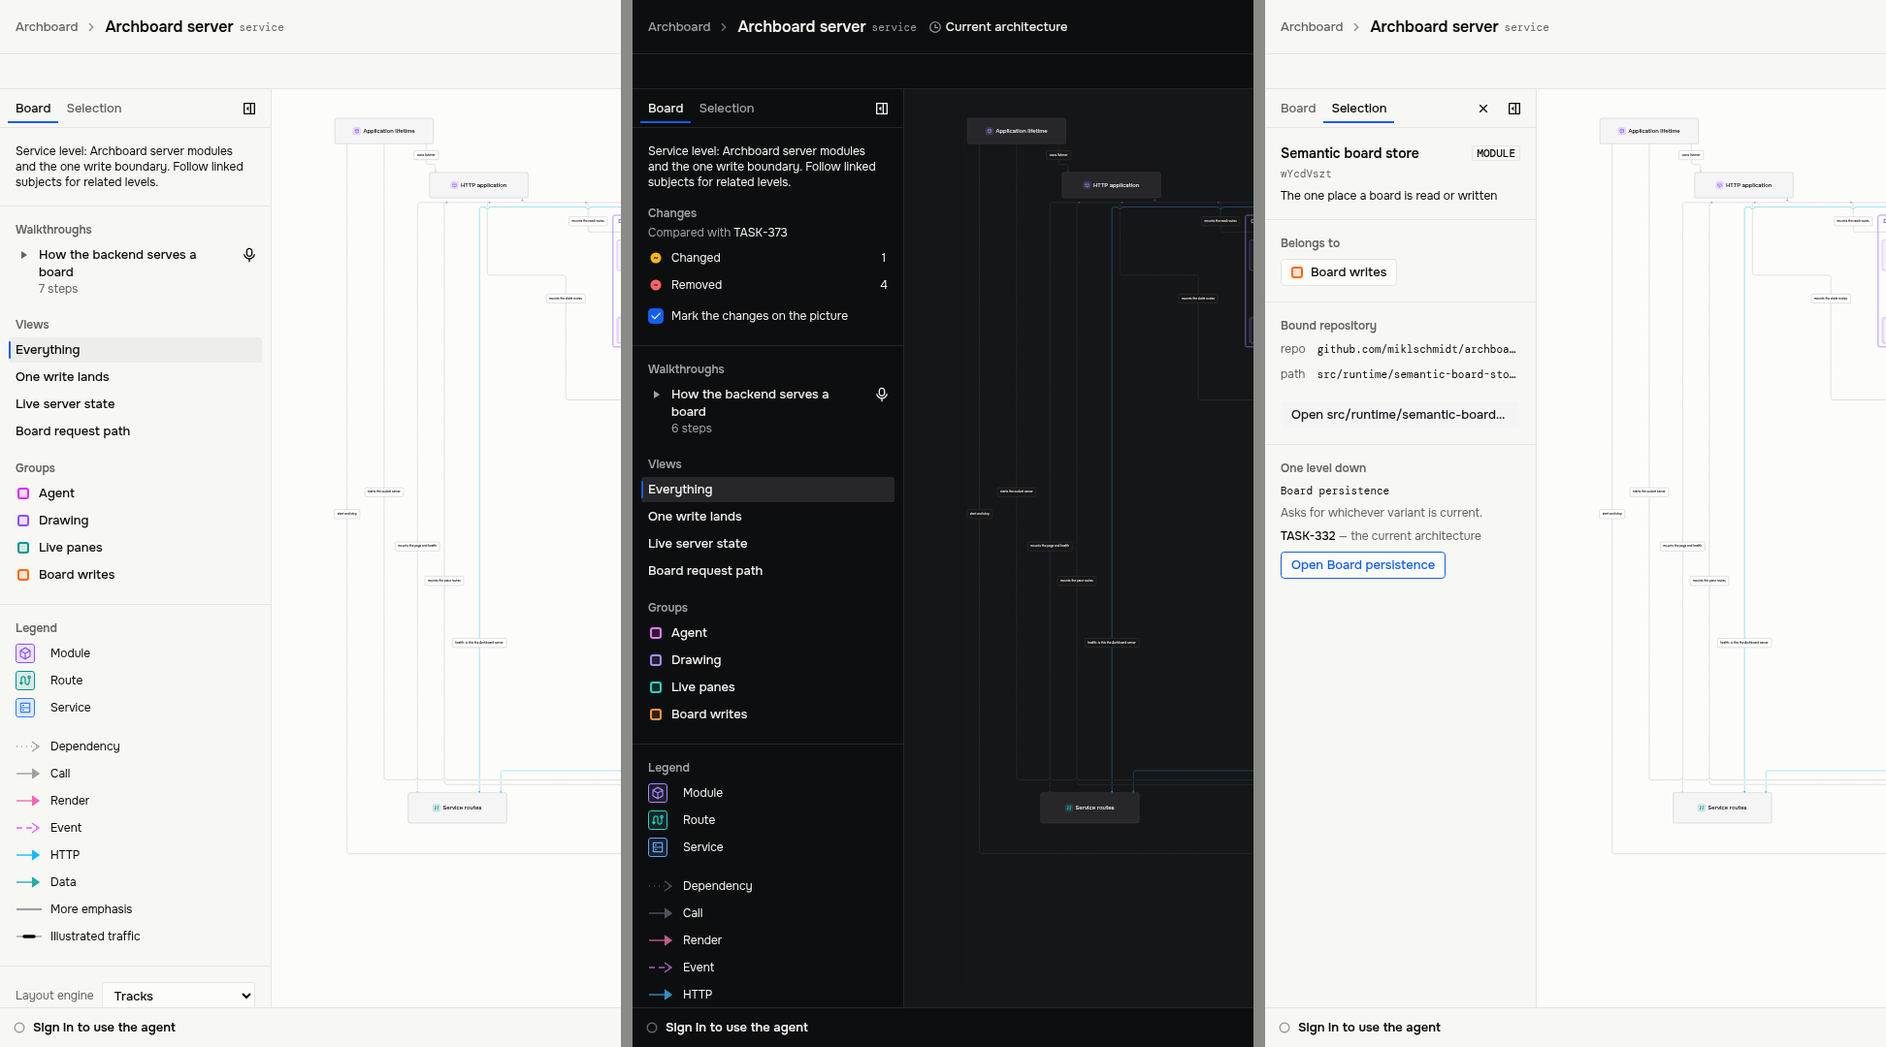
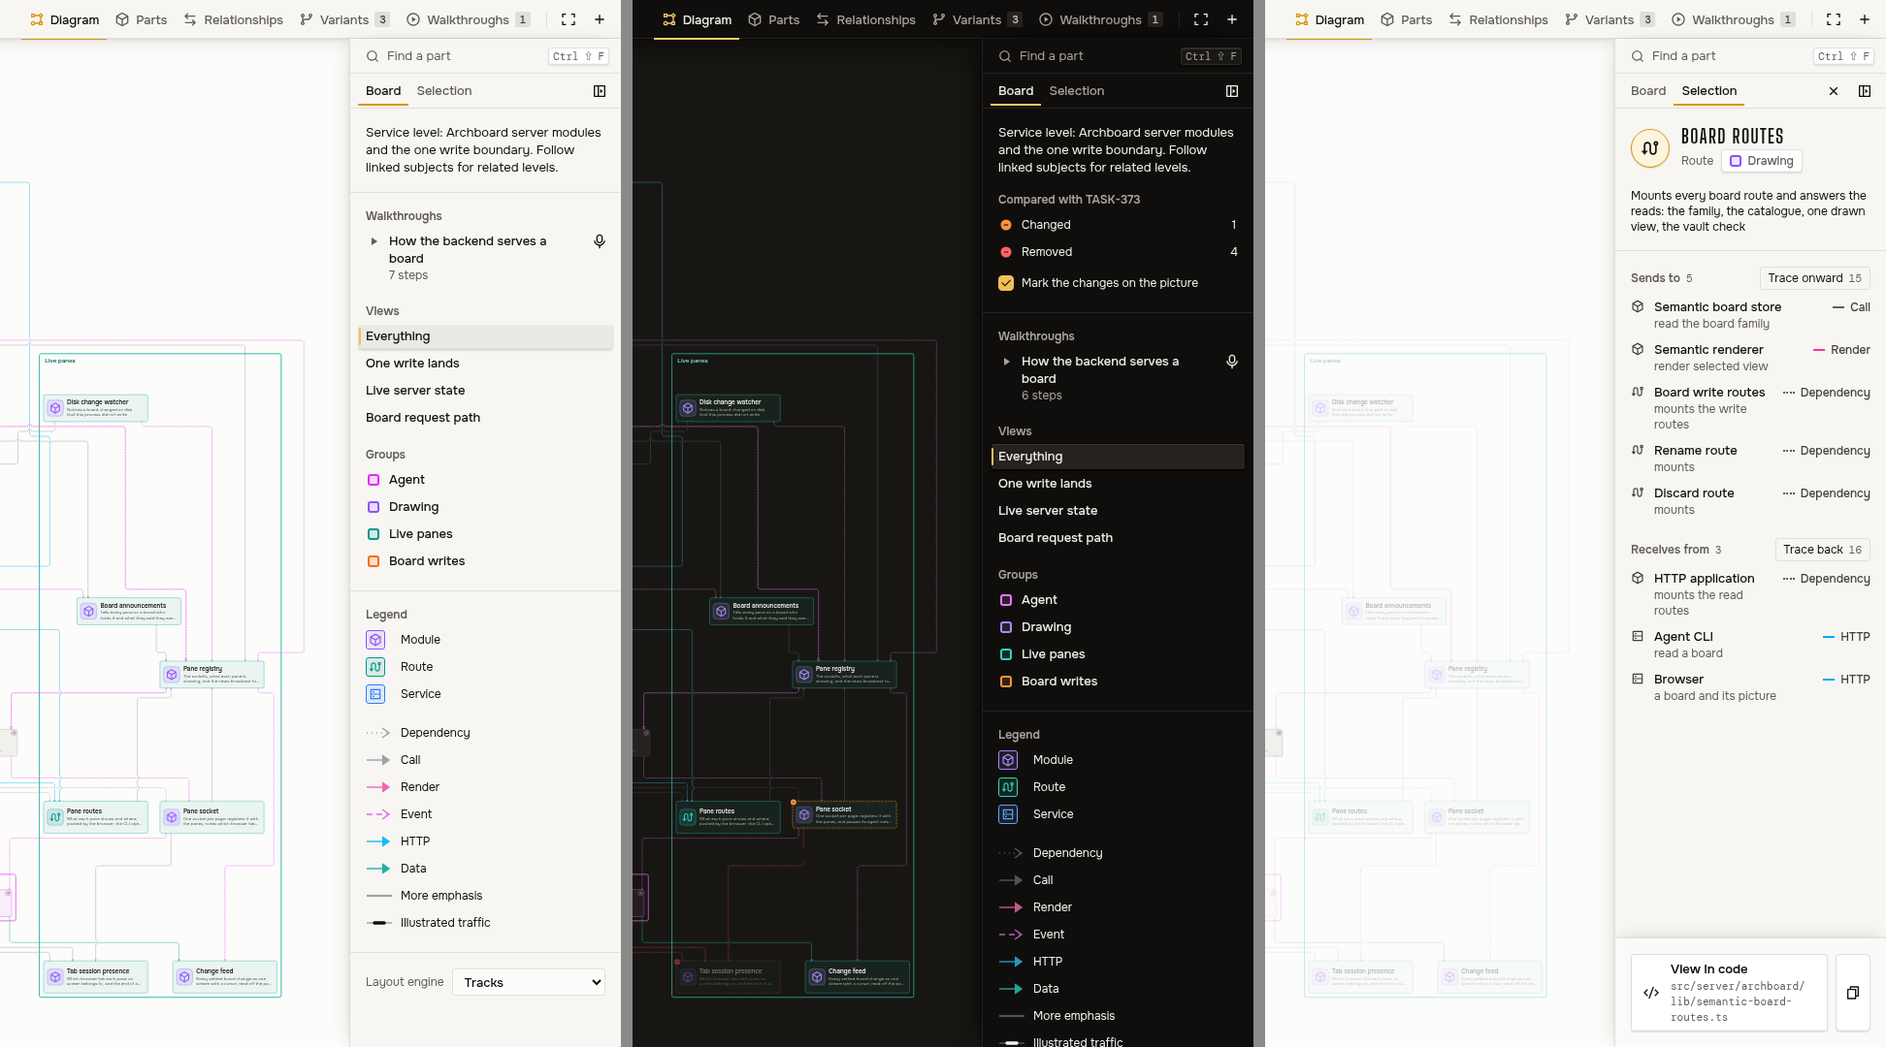
docs(design): describe the distilled pane sidebar
Revise the pane sidebar section of the shell design, DESIGN.md and the
board tab study. Recapture the sidebar image at 1920 by 1080 in both
themes, from a server over a copy of the dogfood vault. Close TASK-388 in
Backlog.

TASK-388

diff --git a/backlog/tasks/task-388 - The-pane-sidebar-says-each-thing-once.md b/backlog/tasks/task-388 - The-pane-sidebar-says-each-thing-once.md
@@ -1,0 +1,94 @@
+---
+id: TASK-388
+title: The pane sidebar says each thing once
+status: Done
+assignee:
+  - '@claude'
+created_date: '2026-10-03 20:18'
+updated_date: '2026-10-03 21:00'
+labels:
+  - ui
+dependencies: []
+references:
+  - docs/design/pane-sidebar-hierarchy.md
+documentation:
+  - docs/design/operator-canvas-shell.md
+priority: medium
+type: enhancement
+ordinal: 677000
+---
+
+## Description
+
+<!-- SECTION:DESCRIPTION:BEGIN -->
+User direction 2026-10-03: distill the Board and Selection tabs of the pane sidebar.
+
+The two tabs speak two grammars and say several things twice. The Board tab was ordered by the questions a reader asks (TASK-383). The Selection tab still carries the older prototype grammar: every section has its own rule and a heading that restates what sits under it (Purpose, Code location, Relationships, Belongs to, Go deeper). Measured on `Archboard server` at 1920×1080 in the dark theme:
+
+- A part's groups stand in its subtitle and again under Belongs to.
+- A part's code stands as a repository row and a path row with a copy button each, and again as View in code at the foot, whose second line says "Open in your editor".
+- A relationship row's kind chip squeezes its label ("mounts the write ro…"), although the sidebar's rule is that nothing is cut off.
+- The panel of a selected relationship, exchange or message has its own title (a mono kind badge and the opaque id) and sets part names in the mono face. A part's panel has the display title.
+- In a comparison, what moved on a part is the last thing in a long panel, and a changed field reads as one truncated line ("description Every board operation rea…").
+- The Board tab lists the variants of a drilled board. The Variants page of the pane header lists the same variants with the record of each and opens one on a click, and the header's breadcrumb already names the variant on screen. The Board tab's own comment holds that two places for one choice is one too many.
+
+TASK-368.09 and TASK-369.07 will add lists of parts to the Selection tab. One section grammar and one row grammar is what they should land in.
+<!-- SECTION:DESCRIPTION:END -->
+
+## Acceptance Criteria
+<!-- AC:BEGIN -->
+- [x] #1 A selected part, relationship, exchange or message opens under one title: its name in the display face and one line that says what it is. A part's line names its kind and its groups, and each group there selects its members. No panel shows a subject's id.
+- [x] #2 A panel's regions follow the order a reader asks: what it is, how it stands against the variant it is read against (only in a comparison, or with an open disagreement), how it is wired. A rule divides regions and space divides sections, as on the Board tab.
+- [x] #3 No heading that only restates what is under it stays (Purpose, Relationships, Belongs to, Code location, Go deeper), and no sentence says that a purpose or a code binding is absent.
+- [x] #4 A part's code binding is said once, at the foot of its panel: the bound path, the way to open it and the way to copy it. The repository, branch and commit are on that control's title.
+- [x] #5 A relationship row shows its whole name and label, wrapped and never cut, and the fields that moved on a compared part read in full.
+- [x] #6 The Board tab no longer lists variants. The Variants page still lists every variant of a drilled board and opens one, the header still names the variant on screen, and a test pins both.
+- [x] #7 Every control stays reachable from the keyboard with an accessible name and state, the group controls keep their names, and no motion is added.
+- [x] #8 Seen in a browser at 1920×1080 in both themes: a part with a drill-down and code, a part with neither, a changed part of an earlier variant, a relationship, and the Board tab of a drilled board.
+- [x] #9 The sidebar tests that fail on a clean HEAD pass, the new contracts have module tests, and every lane that passes on a clean HEAD still passes. The touched files have no lint or type finding.
+- [x] #10 docs/design/operator-canvas-shell.md and DESIGN.md describe the result, and the pane sidebar capture in docs/design/assets shows it.
+<!-- AC:END -->
+
+## Implementation Plan
+
+<!-- SECTION:PLAN:BEGIN -->
+1. One frame. SidebarSection takes a heading level, a count and an action beside the heading, so both tabs build from SidebarRegion and SidebarSection. The Selection tab's own Section, PanelSection, TitleBlock and PanelTitle go.
+2. One title for every subject (SubjectTitle in SemanticInspectorParts): the name in the display face, wrapped and never cut; one line under it. A part's line is its kind and its groups as the controls that select their members (the Belongs to section goes); a relationship's is its kind chip; an exchange's and a message's say what they are. The opaque id and the mono kind badge go. A part keeps its kind medallion; the others have none.
+3. A part's panel in three regions. What it is: the title, the line it is responsible for, the longer account, with no Purpose heading and no sentence for an absent purpose. How it stands (comparison or open disagreement only, moved up from the foot): the sentence and the fields that moved, each read in full. How it is wired: Sends to and Receives from as sections of one region, a row's kind chip on its name's line so its label keeps the whole width.
+4. The foot. Go deeper loses its heading. Open <board> keeps the gold. View in code takes the bound path as its second line, wrapped at the slashes, with a copy button beside it; the repository, branch and commit are on its title. The Code location section, its two copy rows and the unbound sentence go.
+5. Relationship, exchange and message panels use the same title and regions: Between, Taking part and In this exchange keep their rows with part names in the body face.
+6. Board tab. The variants of a drilled board go (SemanticVariantBar, its section, the props that carried them to the sidebar), because the Variants page offers them with their record and the header's breadcrumb names the one on screen. Sweep what only served it. The Changes section names what it is compared with in its heading rather than on a line under it.
+7. Tests. Update the owners that pinned the old sections to the new contracts: binding at the foot, groups in the title, the standing region, wrapped rows. Move the drilled-board variant choice to the Variants page. Bring the drill-down contract tests that fail on a clean HEAD to the current Go deeper. Add a test for the part with no purpose and no binding.
+8. Docs and captures: operator-canvas-shell.md (the pane sidebar section, Board and Selection), DESIGN.md (the foot's name), and the sidebar capture in docs/design/assets from a running server at 1920x1080 in both themes.
+9. Verify: type-check both projects, lint on the touched files, the semantic-board-canvas and shell tests, the browser lane owners that read the sidebar, and a batched browser pass in both themes.
+No board proposal: the task changes how existing sidebar parts look and which of them there are, and adds no module, dependency or relationship that a board draws.
+<!-- SECTION:PLAN:END -->
+
+## Implementation Notes
+
+<!-- SECTION:NOTES:BEGIN -->
+Scope. The Board tab was ordered by the TASK-383 study and is mostly at its essence. The Selection tab still had the older prototype grammar, so most of the work is there. The Board tab loses its list of variants and names the comparison in its heading.
+
+Decisions.
+- Variants. The Board tab no longer lists them. The Variants page of the header lists every variant with the record of each and opens one in the pane, the navigator lists them, and the header breadcrumb names the one on screen. The page now asks for the current variant as no variant, as the removed list did, so a pane that chose the current variant goes on following it when a proposal is adopted. This is its own commit, so it can be dropped alone.
+- A part with no purpose and a part with no code binding show nothing in their place, the rule the code already applied to descriptions. A part that leads nowhere has no foot.
+- The binding is shown once, in the foot. Its path is the second line of View in code and has a copy control beside it, which shows that it copied for as long as the pointer or the focus stays on it. There is no timer, because durations live in src/shared/timing and another session was editing that file.
+- The words for a state that is not the current architecture (draft proposal, historical state, shelved proposal) are back in the way down. The prototype had dropped them, an old test pinned them, and PRODUCT.md asks for an accessible lifecycle.
+- What moved on a compared part reads as was and now, whole, in the body face. It was one truncated line of mono.
+- Left alone: the layout engine row. It is a preference of this browser, and it is how the Blocks engine is compared with Tracks (TASK-351).
+
+Validation.
+- Type-check of both projects is clean, and the touched files have no lint finding and are formatted.
+- bun test over src/ui/semantic-board-canvas: 237 pass and 10 fail on a clean HEAD, 247 pass and 3 fail now. Seven of the ten are the sidebar's drill-down and unbound-node contracts and now pass. Three still fail: the way back through the header breadcrumb, which replaced the trail (they need the shell's placeOf and are not about the sidebar).
+- bun run test:modules: 3824 pass, 5 fail. The five are those three and two shell tests (pane news, navigator tree). TASK-386.03 recorded both as failing on a clean HEAD, and a clean checkout of HEAD fails the same two.
+- Browser owners, one by one with --focus: semantic-board-inspection (ported to the new foot and the breadcrumb), semantic-drill-boundary (ported), semantic-status-legibility, semantic-board-groups, semantic-walkthrough-presentation and semantic-board-viewer pass. shell-layout and the pane-tabs case of workspace-address fail on selectors of the old shell (the header board name and the pane tabs strip). I did not run those two on a clean HEAD, and nothing in this task touches those selectors.
+- bun run test:repository passes. bun run lint refuses to start because frontend/prototype-shell-worlds is not a root of tsconfig.json, so the touched files were linted with bun scripts/lint.ts --type-aware.
+- Headless Chromium at 1920x1080 in both themes: a part with a drill-down and code, a changed part of an earlier variant, a part with neither, a relationship, and the Board tab of a drilled board. A DOM probe on the changed part: sidebar width 280, no horizontal overflow, headings h2 and h3 only, every control with an accessible name, regions in the order about, standing, wiring.
+- docs/design/assets/semantic-pane-sidebar.png is recaptured from a server over a copy of the dogfood vault.
+<!-- SECTION:NOTES:END -->
+
+## Final Summary
+
+<!-- SECTION:FINAL_SUMMARY:BEGIN -->
+Every subject of the selection tab now opens under one title, and a part panel has three regions in the order a reader asks: what it is, how it stands against the variant it is read against, and what it is wired to. The headings and sentences that only restated what sat under them are gone, a part code is said once in the foot, a relationship row keeps its whole label, and a changed field reads as was and now. The board tab no longer lists variants, which the Variants page offers, and it names the comparison in its heading. Verified with 247 passing tests in the canvas module (seven of the ten that failed on a clean HEAD now pass), six browser owners, a DOM probe, and captures at 1920x1080 in both themes. The five failures left in the modules lane are three breadcrumb tests and two shell tests, and all five fail on a clean HEAD.
+<!-- SECTION:FINAL_SUMMARY:END -->

diff --git a/docs/design/operator-canvas-shell.md b/docs/design/operator-canvas-shell.md
@@ -78,29 +78,25 @@ state:
 
 ## The pane sidebar
 
-Revised 2026-09-17 (TASK-249) and 2026-09-30 (TASK-383). The generated
-reference above places selection details in a column on the right of the
-canvas. The pane sidebar supersedes that column. A semantic pane now has one
-sidebar on the left of its picture. The sidebar has the width of the old
-inspector (`SIDEBAR_WIDTH`, 280 px) and two tabs:
+Revised 2026-09-17 (TASK-249), 2026-09-30 (TASK-383) and 2026-10-03
+(TASK-388). The generated reference above places selection details in a column
+on the right of the canvas. The pane sidebar supersedes that column. A semantic
+pane now has one sidebar on the right of its picture. The sidebar has the width
+of the old inspector (`SIDEBAR_WIDTH`, 280 px) and two tabs:
 
 - **Board**: what the board on screen is, and how to read it. The tab is
   ordered by the questions a reader asks, in the order they ask them.
   [The study behind the order](pane-sidebar-hierarchy.md) derives it from the
   use cases and from research on how people read diagrams. There are four
   regions, and a rule separates one region from the next:
-  1. **What is this, and what does it change?** On a board reached by a
-     drill-down, its variants, said and ordered as the navigator says and
-     orders them: the lifecycle's mark before the name, the historical and
-     shelved names receding and last. All of them are listed, with no Earlier
-     row, because this is the only place their variants are chosen. Then the
-     summary of the variant on screen, with no heading: the board's own
-     statement of its scope. On a variant read against another,
-     the changes: which variant it is compared with, one row for each standing
-     that occurs with the pin the picture draws and how many subjects stand
-     so, and the control that marks the changes on the picture. The counts are
-     of what the picture draws, so a view in which nothing differs says so of
-     the view and keeps the control.
+  1. **What is this, and what does it change?** The summary of the variant on
+     screen, with no heading: the board's own statement of its scope. On a
+     variant read against another, the changes: a heading that names the
+     variant it is compared with, one row for each standing that occurs with
+     the pin the picture draws and how many subjects stand so, and the control
+     that marks the changes on the picture. The counts are of what the picture
+     draws, so a view in which nothing differs says so of the view and keeps
+     the control.
   2. **How do I read it?** The walkthroughs, each with its number of steps and
      Narrate beside it. Choosing one presents it (see below). Then the views,
      with Everything first and the summary of the view on screen under its
@@ -111,14 +107,42 @@ inspector (`SIDEBAR_WIDTH`, 280 px) and two tabs:
   4. **The layout engine**, a preference of this browser, in one row at the
      foot.
 
-  A section with nothing to show is absent. The pane's own board offers no
-  choice of variant: the navigator lists every variant of every board, so the
-  person makes one choice in one place. Views live here and not in a switcher
-  on the picture, because a switcher over the picture can cover what it
-  switches.
+  A section with nothing to show is absent. The tab lists no variants. The
+  navigator lists the variants of every board, the Variants page of the pane's
+  header lists them with the record of each and opens one in the pane, and the
+  breadcrumb in the header names the one on screen (TASK-388). Views live here
+  and not in a switcher on the picture, because a switcher over the picture can
+  cover what it switches.
 
-- **Selection**: the inspector for whatever is picked out, with the control that
-  lets go of the selection in the tab row.
+- **Selection**: what the board says about whatever is picked out, with the
+  control that lets go of the selection in the tab row. Every subject opens
+  under one title: its name in the display face, wrapped and never cut, and one
+  line that says what it is. A part also wears its kind's icon in a gold ring.
+  Its line names its kind and the groups it belongs to, each the control that
+  selects the group's members. A relationship's line is its kind, drawn as the
+  legend draws it. No panel shows an id. The tab builds from the same regions
+  and sections as the Board tab, in the order a reader asks:
+  1. **What is it?** The title, the line the subject is responsible for and
+     its longer account. Nothing says that either is missing.
+  2. **How does it stand?** Only in a comparison, or with a disagreement still
+     open: what nobody has decided about it, and how it differs from the
+     variant it is read against, with the fields that moved shown whole, each
+     as what it was and what it is.
+  3. **What is it wired to?** For a part, Sends to and Receives from, each with
+     its number of parts and the control that traces how far it reaches. A row
+     names the other part and what the relationship carries under the name,
+     with the relationship's kind at the end of the name's line so the words
+     keep the whole width. For a relationship, the parts at its two ends. For an
+     exchange, who takes part. For a message, where it comes in its exchange.
+
+  A part that leads somewhere has a foot on a tray, pinned under the panel's
+  scroll, with no heading. Open the board it drills into is the gold primary
+  action, and says which way that board lies, what level it is and, for a state
+  that is not the current architecture, what sort of state it is. View in code
+  names the bound path, opens it in the person's editor and comes with the
+  control that copies the path. The repository, branch and commit are on its
+  title. This is the one place a binding is shown, and a part with none has no
+  such row and no sentence about it.
 
 Both tabs share one frame. Text starts 16 px from either edge of the sidebar,
 and so do the tab labels. A section heading is 12 px semibold in the muted
@@ -158,10 +182,12 @@ the rows that they pass over. They never go below the flow's last row.
 tab](assets/semantic-pane-sidebar.png)
 
 The image holds rendered captures of the dogfood vault at 1920×1080, not
-generated mockups, cut to the pane. From the left: the board tab on the
+generated mockups, cut to the right 640 px: the tabs of the pane's header, the
+sidebar and the edge of the picture. From the left: the board tab on the
 current variant of `Archboard server` in the light theme, the board tab on its
-historical variant `Current architecture` in the dark theme, and the selection
-tab in the light theme.
+historical variant `Current architecture` in the dark theme, where it is read
+against the current variant, and the selection tab on `Board routes` in the
+light theme.
 
 ## The navigator
 

diff --git a/DESIGN.md b/DESIGN.md
@@ -139,7 +139,7 @@ every role and changes the values. The file palette.css holds both themes.
 
 - **Ground Chalk** (oklch(0.99 0.0025 90), dark oklch(0.2 0.006 75)): the ground of the picture, and of the pages that replace it.
 - **Chrome Chalk** (oklch(0.973 0.004 88), dark oklch(0.165 0.005 75)): the navigator, the pane header and the sidebar.
-- **Tray Chalk** (oklch(0.986 0.003 88), dark oklch(0.205 0.007 75)): a tray at the foot of a column, raised over the chrome. The agent dock and Go deeper use it.
+- **Tray Chalk** (oklch(0.986 0.003 88), dark oklch(0.205 0.007 75)): a tray at the foot of a column, raised over the chrome. The agent dock and the foot of the selection tab use it.
 - **Reading Tone** (oklch(0.935 0.006 85), dark oklch(0.255 0.008 78)): the chosen row of a list, raised as a plate.
 - **Card White** (oklch(1 0 0), dark oklch(0.235 0.007 75)): cards, popovers, dialogs and raised controls.
 - **Ink Graphite** (oklch(0.17 0.006 75), dark oklch(0.955 0.006 90)) and **Muted Ink** (oklch(0.48 0.008 75), dark oklch(0.72 0.01 80)): text.
@@ -242,7 +242,7 @@ tone.
 ### Buttons
 
 - **Shape:** firm corners (3px to about 4.8px).
-- **Primary:** a physical piece of gold, drawn by the `primary-finish` utility. It has the gradient from Gold Top to Gold Bottom and a Gold Rim edge. It has a highlight on its top edge, a shadow that seats it and Gold Ink text. It is the one primary action of a region: Open <board> under Go deeper, Send, and the button of a dialog that saves or agrees.
+- **Primary:** a physical piece of gold, drawn by the `primary-finish` utility. It has the gradient from Gold Top to Gold Bottom and a Gold Rim edge. It has a highlight on its top edge, a shadow that seats it and Gold Ink text. It is the one primary action of a region: Open <board> at the foot of the selection tab, Send, and the button of a dialog that saves or agrees.
 - **Hover and pressed:** hover makes the gradient brighter. Pressed turns the gradient over, moves the shadow inside and sinks the control by 1px.
 - **Outline and secondary:** Card White, a Rule edge and `shadow-raised`. When pressed, they use `shadow-pressed`.
 - **Ghost:** no fill until hover.

diff --git a/docs/design/pane-sidebar-hierarchy.md b/docs/design/pane-sidebar-hierarchy.md
@@ -7,6 +7,13 @@ last section derives the hierarchy that the redesign builds. The pane sidebar
 section of [operator-canvas-shell.md](operator-canvas-shell.md) states the
 result as the visual authority.
 
+Revised 2026-10-03 (TASK-388). The tab no longer lists the variants of a board
+that a reader reached by a drill-down (task 7 below). The Variants page of the
+pane's header lists them with the record of each and opens one in the pane, and
+the header's breadcrumb names the one on screen. The changes section names the
+variant that it is compared with in its own heading. The rest of the study
+stands as it was found.
+
 The evidence has three kinds. The product documents say what each element is
 for. The boards in `.archboard/vault` and `examples/web-shop` say how often
 each element has anything to show. Research on diagram reading and interface
